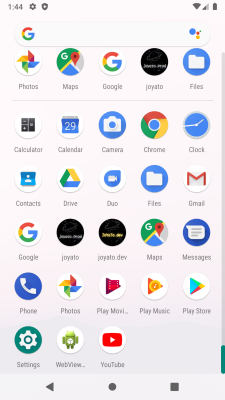
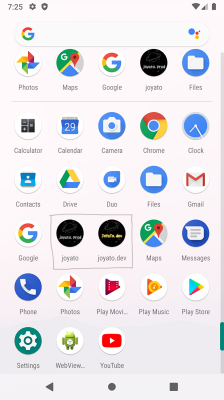
アイコン名からアプリ名に変更、画像の変更

diff --git a/README.md b/README.md
@@ -11,11 +11,11 @@
  新しくチームに参加された方にビルドまでの手順を説明します。
  本プロジェクトではdevとprodの2つの開発環境を用意しています。
  それら2つの環境でiOSとAndroidのビルドができる状態にし、下記の画像のような状態を目指しましょう。
- - devアイコン名: joyato.dev
- - prodアイコン名: joyato
+ - devアプリ名: joyato.dev
+ - prodアプリ名: joyato
 
 
- ![画像の説明](assets/images/iOS.png)
+ ![画像の説明](assets/images/ios.png)
  *iOS*
  ![画像の説明](assets/images/android.png)
  *android*  
